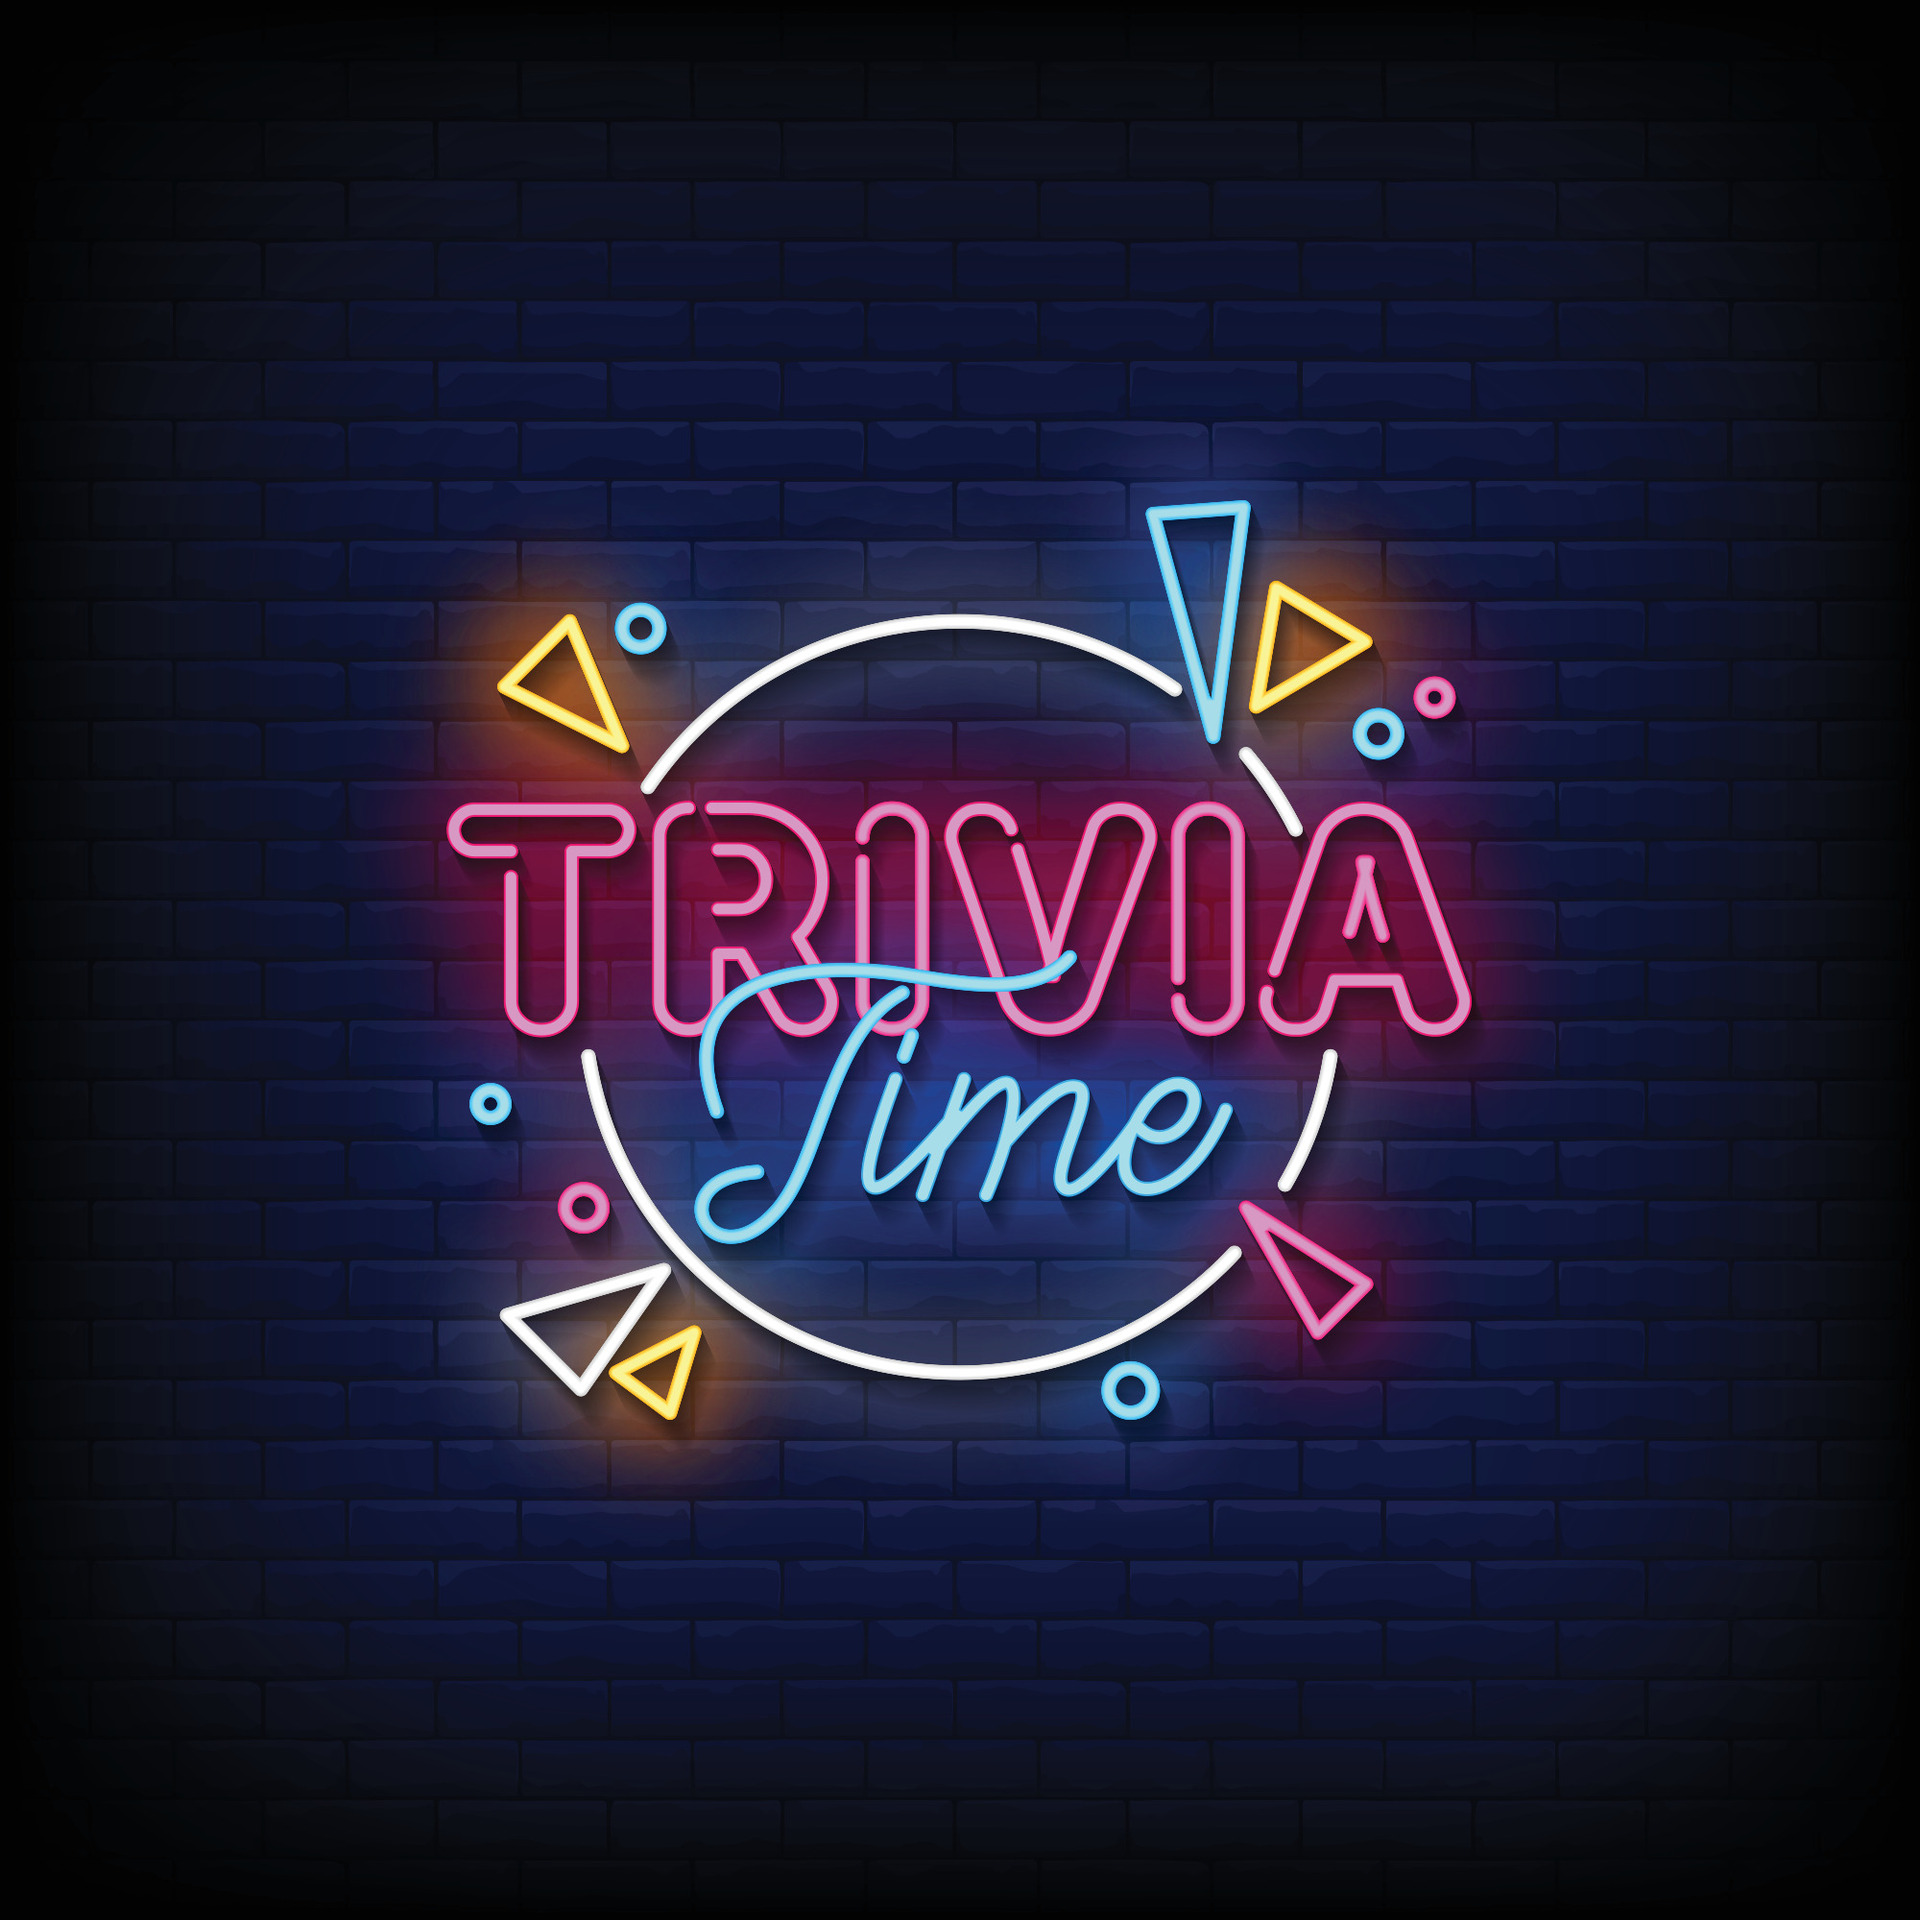
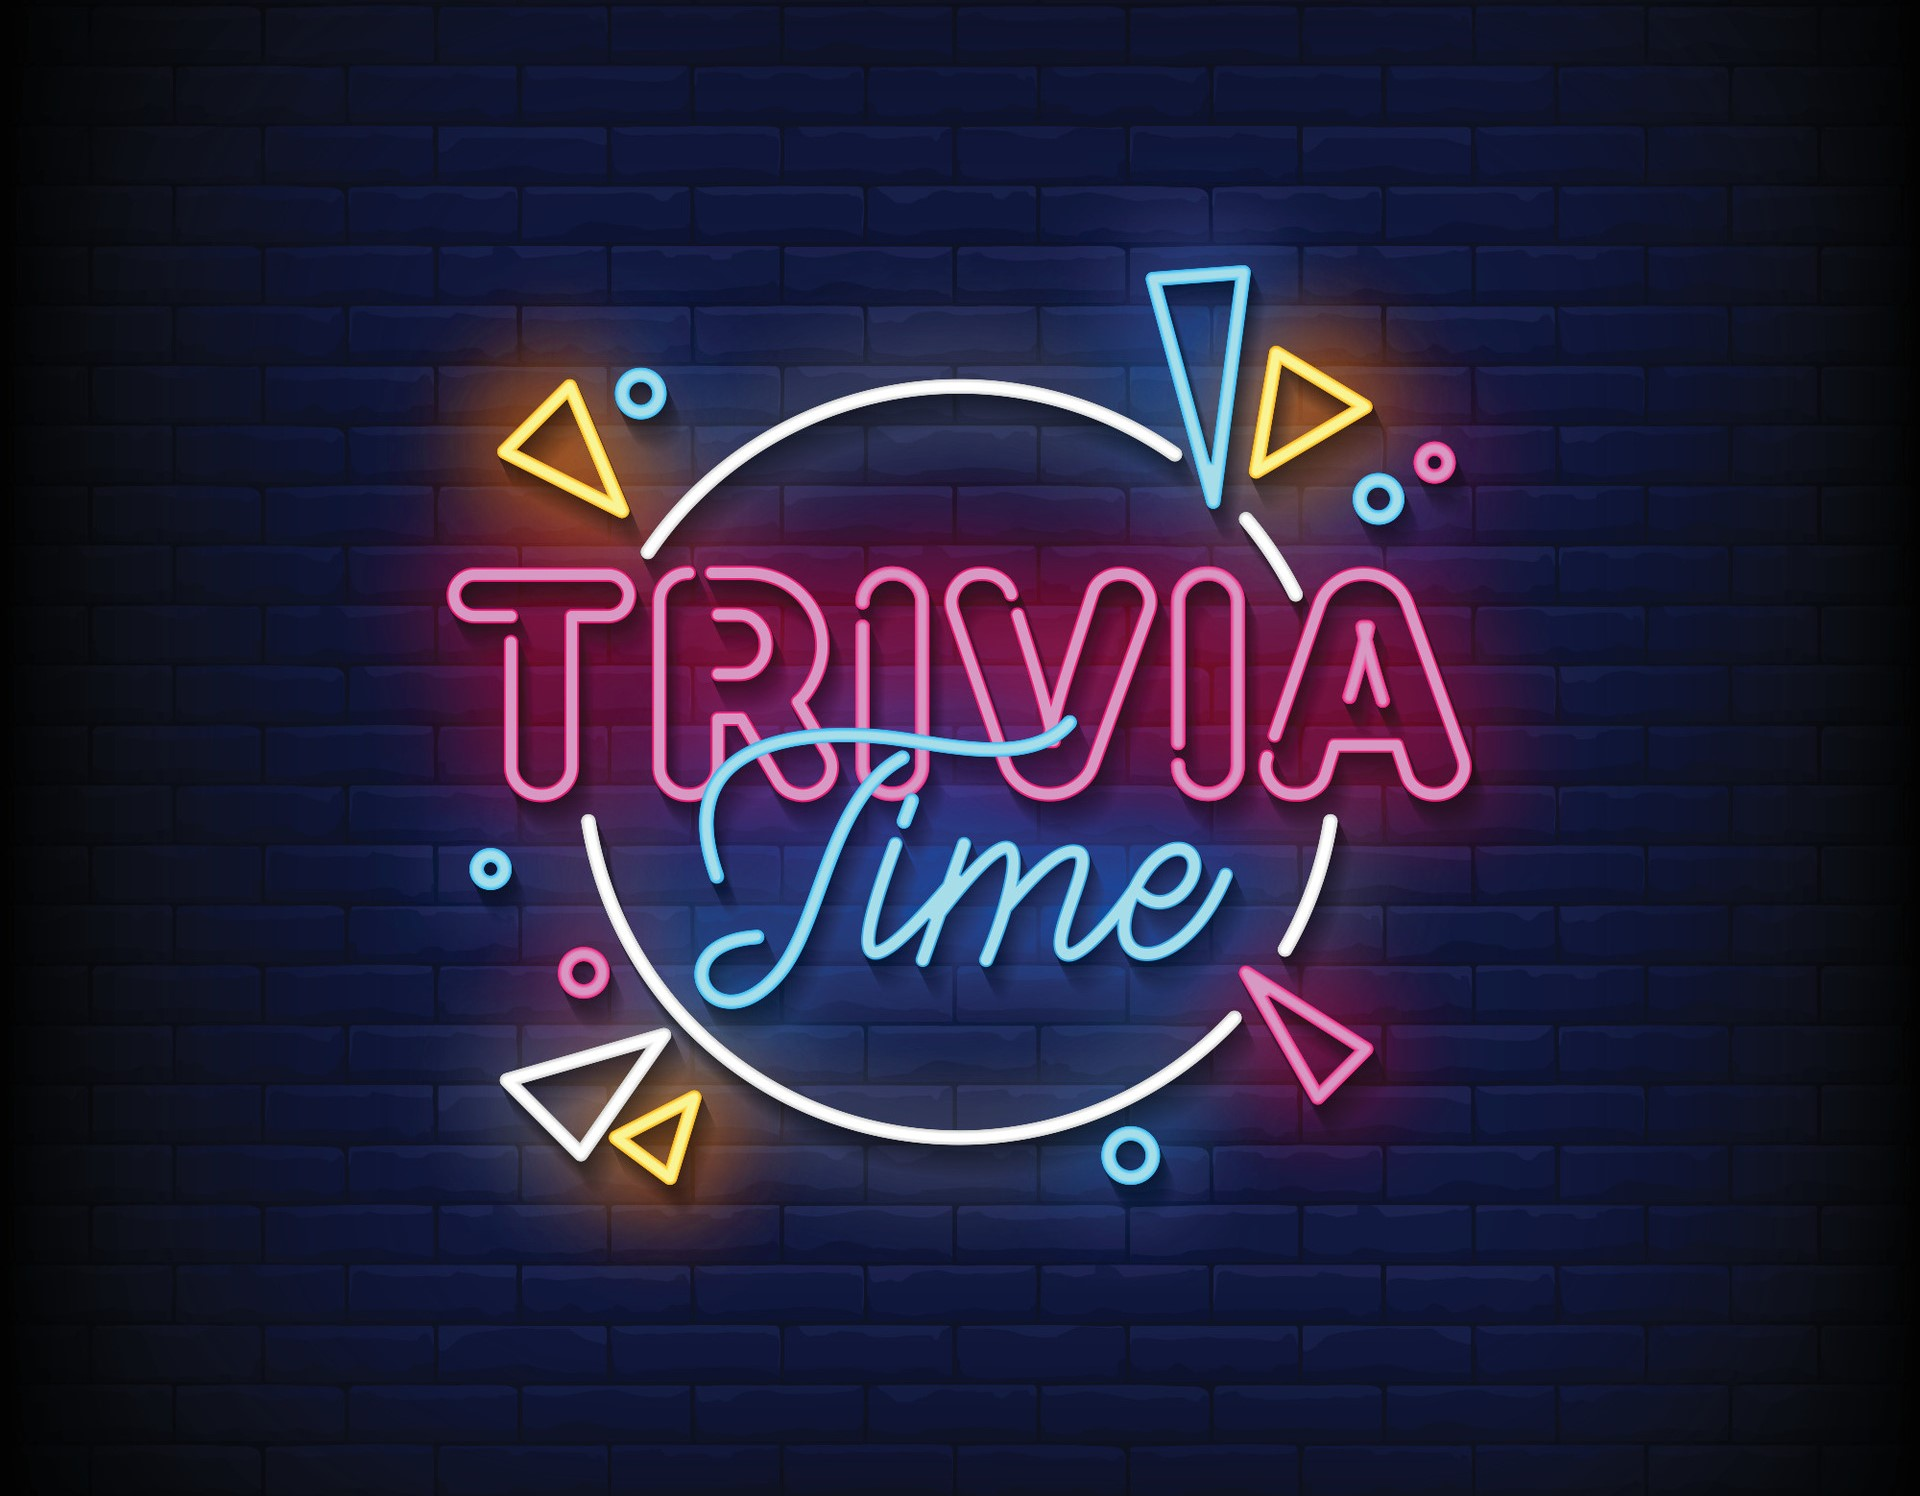
css for Desktop version

diff --git a/public/main.css b/public/main.css
@@ -494,7 +494,7 @@ span.guest-user {
 }
 
 .trivia-image, .overlay {
-    width: 40vw;
+    width: 50vw;
     height: 92vh;
     border-radius: 5px;
 
@@ -528,12 +528,12 @@ span.guest-user {
 .login-intro-images {
     position: relative;
     margin: 20px 0 auto 20px;
-    width: 40vw;
+    width: 50vw;
     height: 92vh;
 }
 
 .credentials-section {
-    margin-left: 60px;
+    margin-left: 150px;
     /* height: 100%; */
 
 
@@ -547,13 +547,13 @@ span.guest-user {
 
 .login-register-form input {
     background-color: #18345E;
-    width: 450px;
-    height: 40px;
+    width: 380px;
+    height: 30px;
     border: none;
     border-radius: 5px;
     color: white;
     font-size: 20px;
-    margin: 0 0 30px 0;
+    margin: 0 0 25px 0;
     font-weight: 400;
     padding-left: 20px;
 
@@ -571,7 +571,8 @@ span.guest-user {
 .login-register-form input[type="submit"] {
     background-color: #DC5F00;
     /* padding-left: 0; */
-    width: 470px;
+    width: 400px;
+    margin-top: 30px;
 
 }
 
@@ -579,7 +580,7 @@ span.guest-user {
     color: white;
     font-size: 15px;
     margin-left: 20px;
-    margin-right: 10px;
+    margin-right: 20px;
 
 
 
@@ -587,6 +588,10 @@ span.guest-user {
 }
 .login-register-form {
     height: fit-content;
+    position: absolute;
+    top: 25px;
+    left: 25px;
+    padding-top: 10px;
 }
 
 .option-title {
@@ -594,31 +599,37 @@ span.guest-user {
     flex-direction: row;
     align-items: center;
     justify-content: center;
-    max-width: 470px;
+    max-width: 445px;
     margin-bottom: 15px;
 }
 
 .dash-line {
     border-top: 2px solid white;
-    width: 150px;
+    width: 130px;
 }
 
 .google {
-    width: 470px;
+    width: 400px;
     background-color: #18345E !important;
     border-radius: 5px;
     border-color: white;
     margin-top: 20px;
+    margin-left: 20px;
     color: white;
     font-size: 20px;
     font-family: "Titillium Web", "Dosis";
-    padding-bottom: 10px;
-    padding-top: 10px;
+    
+    display: flex;
+    align-items: center; 
+    padding: 0 auto 0 auto;  
 }
 .google-icon {
-    width: 27px;
-    height: 26px;
-    margin: 0 30px 0 0;
+    /* width: 27px; */
+    /* height: 26px; */
+    margin: 0 30px 0 130px;
+    vertical-align: middle;
+    width: 20px; /* Adjust size as needed */
+    height: auto;
 }
 
 .google-auth a {
@@ -629,12 +640,31 @@ span.guest-user {
 }
 
 .logout {
-    margin-top: 30px;
+    margin-top: 20px;
     text-align: center;
     text-decoration: underline;
+    color: white;
 }
 
+.oAuth-div {
+    /* margin-left: 40px; */
+}
+.form-overlay { 
+    height: 350px;
+}
 
+.form-overlay, .login-form-overlay {
+    width: 450px;
+    background-color: #ffffff05;
+    position: relative;
+    border-radius: 15px;
+    margin-bottom: 20px;
+    
+}
+.login-form-overlay {
+    height: 250px;
+
+}
 
 
 

diff --git a/dbConfig.js b/dbConfig.js
@@ -4,15 +4,15 @@ import pkg from 'pg';
 const { Pool } = pkg;
 
 dotenv.config();
-// const { Pool } = require("pg");
-const isProduction = process.env.NODE_ENV ==="production";
-const connectionString =  `postgres://${process.env.DB_USER}:${process.env.DB_PASSWORD}@${process.env.DB_HOST}:${process.env.DB_PORT}/${process.env.DB_DATABASE}`;
+
+const isProduction = process.env.NODE_ENV === "production";
+const connectionString = `postgres://${process.env.DB_USER}:${process.env.DB_PASSWORD}@${process.env.DB_HOST}:${process.env.DB_PORT}/${process.env.DB_DATABASE}`;
+
 const pool = new Pool({
-    connectionString: isProduction ? process.env.DATABASE_URL : connectionString,
-    ssl: {
-      rejectUnauthorized: false, // Accepts self-signed certificates (typical for cloud services like Render)
-    },
+  connectionString: isProduction ? process.env.DATABASE_URL : connectionString,
+  ssl: isProduction
+    ? { rejectUnauthorized: false } // Use SSL only in production
+    : false, // Disable SSL for local development
 });
 
 export { pool };
-

diff --git a/index.js b/index.js
@@ -102,7 +102,7 @@ app.get("/users/logout", (req, res) => {
             return next(err); 
         };
     req.flash("success_msg", "You have logged out");
-    res.redirect("/users/login");
+    res.render('landingPage.ejs');
 
 });
 });
